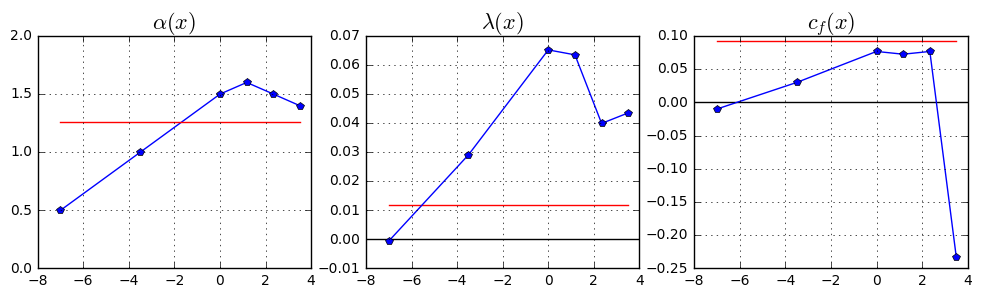
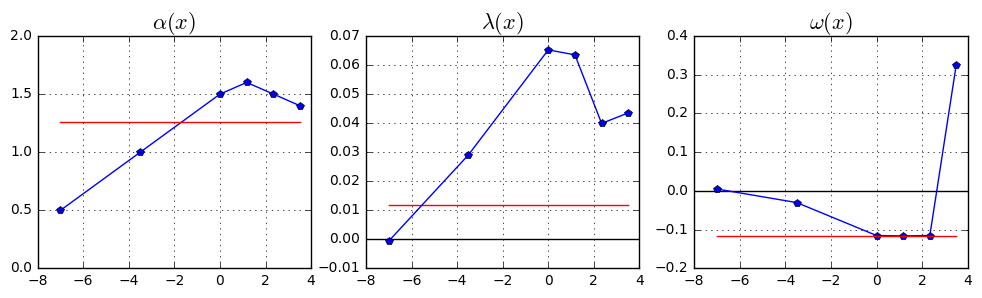
x independent instability added to ch2_edge

diff --git a/ch2_edge.tex b/ch2_edge.tex
@@ -34,7 +34,7 @@
 Здесь $\v_{Pois}=(1-r^2,0,0)$ --- течение Пуазейля, $t_0$ --- некоторый фиксированный момент времени, $\alpha \in [0,1]$ --- скалярный параметр. Значение $\alpha=0$ соответствует нулевому возмущению, и решением при $t>0$ остается течение Пуазейля. Выбирая $\alpha=1$, мы уже в начальный момент времени попадаем на турбулентный режим и остаемся на нем при $t>0$. При промежуточных значениях $\alpha$ происходит стремление решения либо к одному, либо к другому режиму. Метод деления отрезка пополам позволяет получить значение $\alpha^*$, отделяющее те значения $\alpha$, при которых устанавливается ламинарный режим течения, от тех, при которых происходит выход на турбулентный режим. Заранее известно, что $\alpha^*$ лежит внутри отрезка $[\alpha_0', \alpha_0''] = [0,1]$. На каждой итерации длина отрезка, заключающего $\alpha^*$, сокращается вдвое. На $n$-ой итерации определяется, какой режим течения устанавливается при $\alpha_{n} = (\alpha_{n-1}' + \alpha_{n-1}'') / 2$, разделяющем отрезок $[\alpha'_{n-1}, \alpha''_{n-1}]$ на две равные части. Если устанавливается ламинарный режим течения, то $\alpha^*$ принадлежит верхней половине отрезка, $[\alpha_{n}', \alpha_{n}''] = [\alpha_{n}, \alpha_{n-1}'']$, если турбулентный --- то нижней, $[\alpha_{n}', \alpha_{n}''] = [\alpha_{n-1}', \alpha_{n}]$. На рисунке \ref{bisection_pic} представлены графики $A(t)$ --- среднеквадратичного по всему объему трубы отклонения поля скорости от течения Пуазейля для нескольких значений $\alpha_n$, демонстрирующие сходимость итерационного процесса. Уточняя значение $\alpha$, мы увеличиваем длительность балансирования решения на сепаратрисе. 
 
 
-\begin{figure}[h]
+\begin{figure}
 \center{\includegraphics[width=1\linewidth]{bisection.png}}
 \caption{Итерационный процесс построения решения на сепаратрисе. 1--7 --- эволюция среднеквадратичной амплитуды возмущений $A(t)$ при уточнении начального
 значения.}
@@ -47,7 +47,7 @@
 
 Сравнение предельного решения на сепаратрисе с турбулентным порывом, представленное на рисунке \ref{3D_img}, показывает качественное согласие этих решений. Во всех структурах имеются протяженные области ускоренного и замедленного движения, концентрирующиеся в пристенной области трубы. Сохраняется и основная качественная особенность порыва --- медленное понижение осевой скорости на переднем фронте и более резкое её восстановление на заднем (см. рис. \ref{ucl_cmp_img}). Мы будем называть предельное решение на сепаратрисе {\it модельным порывом}.  
 
-\begin{figure}[h]
+\begin{figure}
 \center{\includegraphics[width=1\linewidth]{ucl_cmp.png}}
 \caption{Сравнение скорости на оси трубы в турбулентном (1) и модельном (2) порывах.}
 \label{ucl_cmp_img}
@@ -66,7 +66,7 @@
 
 При $\Re=2200$ модельный порыв имеет длину около $40R$ и перемещается вдоль трубы с близкой к $0.69U$ скоростью. В подвижной системе отсчета он является периодическим по времени с периодом около $60 R/U$. Характерным свойством модельного порыва является наличие вытянутых вдоль потока областей с повышенным и пониженным значением продольной компоненты скорости, чередующихся в угловом направлении (см. рис. \ref{3D_img}). Полосы повышенной скорости целиком расположены около стенки трубы, полосы замедления соединяются в единое целое в приосевой области вблизи переднего фронта. Наличие вытянутых вдоль потока полос ускоренного и замедленного движения --- характерное свойство любого пристенного турбулентного течения. Однако, в отличие от реальной турбулентности, где полосы случайно блуждают во времени и в пространстве, в рассматриваемом решении полосы сохраняют свое положение и форму, лишь слегка искажаясь периодическими колебаниями. 
 
-\begin{figure}[h]
+\begin{figure}
 \center{\includegraphics[width=1\linewidth]{U2D.png}}
 \caption{Распределения вдоль трубы продольной (а) и радиальной (б) компоненты осесимметричной составляющей скорости $V_{2D}$ для нескольких расстояний от оси
 трубы: 1–4 – r = 0, 0.4, 0.7, 0.9}
@@ -76,7 +76,7 @@
 Для удобства перейдем в подвижную систему координат, перемещающуюся вдоль трубы со скоростью сноса локализованной структуры $c_f$. В подвижной системе решение представляется в виде суперпозиции стационарной составляющей $\V(\x) = \overline{\v}^t$ и колебательной $\v_n(t,\x) = \v - \V$. Стационарную составляющую в свою очередь представим в виде суперпозиции осесимметричной $\V_{2D}(\x) = \overline{\V}^{\theta}$ и трехмерной $\V_{3D}(\x)=\V - \V_{2D}$ составляющих. Распределения продольной компоненты осесимметричной составляющей скорости вдоль трубы $V_{x,2D}(x)$ для нескольких расстояний от оси трубы представлены на рисунке \ref{U2D_pic},а (даны отклонения от течения Пуазейля). Начало системы отсчета $x=0$ помещено в сечение, в котором среднее отклонение скорости от течения Пуазейля максимально. Голова структуры, где начинает проявляться отклонение осевой скорости, располагается на расстоянии $x \approx 45$. Хвостовая часть структуры на сепаратрисе очерчена не так четко, как в турбулентных порывах, где восстановление скорости происходит на отрезке длиной в $3-5$ радиусов трубы.  Падение скорости в приосевой области трубы компенсируется ускорением у стенки. Поведение радиальной компоненты $V_{r,2D}$, показанное на рисунке \ref{U2D_pic},б соответствует изменению осевой скорости --- в зоне замедления на оси происходит растекание жидкости к стенкам, $V_{r,2D}>0$, в передней части происходит обратный процесс и $V_{r,2D}<0$.
 
 
-\begin{figure}[h]
+\begin{figure}
 \center{\includegraphics[width=0.5\linewidth]{amp.png}}
 \caption{Распределения вдоль трубы среднеквадратичных по сечению амплитуд трех
 составляющих движения: 1 – $V_{2D}$ (отклонение от течения Пуазейля); 2, 3 – продольная и поперечные компоненты скорости $V_{3D}$ ; 4 – $v_{n}$}
@@ -157,38 +157,37 @@
 
 \section{Влияние продольной неоднородности среднего поля скорости на форму пульсаций}
 
-Интересно отметить, что область наибольшей интенсивности пульсаций совпадает с областью резкого изменения скорости на оси трубы (см. рис. \ref{ucl_cmp_img}, \ref{amp_pic}). Аналогичную особенность выделяют также в турбулентном порыве \cite{Hof2010}. Для того, чтобы установить влияние продольной неоднородности стационарного течения на образование пульсаций, было исследовано на устойчивость однородное вдоль трубы поле скорости $\U$, воспроизводящее полосчатые структуры. В этом случае коэффициенты в уравнении \eqref{lin_eq} не зависят от $x$, и собственные решения могут быть представлены в виде $\v' = \hat \v(r,\theta,t) \exp(i \alpha x)$, что позволяет исключить переменную $x$ из постановки задачи. Уравнение \eqref{lin_eq} в этом случае принимает вид:
+Интересно отметить, что область наибольшей интенсивности пульсаций совпадает с областью резкого изменения скорости на оси трубы (см. рис. \ref{ucl_cmp_img}, \ref{amp_pic}). Аналогичную особенность выделяют также в турбулентном порыве \cite{Hof2010}. Для того, чтобы установить влияние продольной неоднородности стационарного течения на образование пульсаций, было исследовано на устойчивость однородное вдоль трубы поле скорости $\U$, воспроизводящее полосчатые структуры. В этом случае коэффициенты в уравнении \eqref{lin_eq} не зависят от $x$, и собственные решения могут быть представлены в виде $\v' = \hat \v(r,\theta,t) \exp(i \alpha x)$, что позволяет исключить переменную $x$ из постановки задачи. Уравнение~\eqref{lin_eq} принимает вид:
+\begin{multline*}
+\frac{\partial \hat v_x}{\partial t} = - i \alpha \hat p - i \alpha (U_x - c_f) \hat v_x - (\U_{\perp},\nabla_{\perp}) \hat v_x - 
+(\hat \v_{\perp}, \nabla_{\perp}) U_x + \frac{1}{\Re}( \nabla_{\perp}^2 - \alpha^2 ) \hat v_x,
+\end{multline*}
+\begin{multline*}
+\frac{\partial \hat \v_{\perp}}{\partial t} =  - \nabla_{\perp} \hat p - i \alpha (U_x - c_f) \hat \v_{\perp} - (\U_{\perp},\nabla_{\perp}) \hat \v_{\perp} - (\hat \v_{\perp}, \nabla_{\perp}) \U_{\perp} + \frac{1}{\Re}( \nabla_{\perp}^2 - \alpha^2 ) \hat \v_{\perp}, 
+\end{multline*}
+где знаком $\perp$ обозначена проекция соответствующей величины в плоскость поперечного сечения, ортогональная $x$. Все величины, отмеченные крышечкой, комплексные и не зависят от $x$. В постановке задачи также меняет свой вид уравнение неразрывности:
 \begin{equation*}
-\frac{\partial \hat v_x}{\partial t} =  i \alpha (c_f - U_x) \hat v_x - \hat d - i \alpha \hat p - (\U_{\perp},\nabla_{\perp}) \hat v_x - 
-(\hat \v_{\perp}, \nabla) U_x  + \frac{1}{\Re}( \nabla_{\perp}^2 - \alpha^2 ) \hat v_x,
+\nabla_{\perp} \cdot \hat \v_{\perp} = - i \alpha \hat v_x, 
 \end{equation*}
-\begin{equation*}
-\frac{\partial \hat \v_{\perp}}{\partial t} = i \alpha (c_f - U_x) \hat \v_{\perp}  - \nabla_{\perp} \hat p - (\U_{\perp},\nabla_{\perp}) 
-\hat \v_{\perp} - (\hat \v_{\perp}, \nabla) \U_{\perp} + \frac{1}{\Re}( \nabla_{\perp}^2 - \alpha^2 ) \hat \v_{\perp}, 
-\end{equation*}
-где $\perp$ обозначает проекцию соответствующей величины в плоскости поперечного сечения трубы, ортогональную $x$. Все величины, отмеченные крышечкой, комплексные и не зависят от $x$. Также меняет свой вид уравнение неразрывности:
-\begin{equation*}
-\nabla_{\perp} \cdot \hat \v_{\perp} = - i \alpha \hat v_x. 
-\end{equation*}
+и снимается условие периодичности вдоль потока \eqref{per_eq}. Задача, таким образом, сводится к двумерной постановке с дополнительным параметром $\alpha$. 
 
-
-\begin{figure}[h]
+\begin{figure}
 \center{\includegraphics[width=1\linewidth]{cs_lin.png}}
-\caption{Значение волнового числа $\alpha$, инкремента нарастания $\lambda$ и фазовой скорости $c_f$ для наиболее быстрорастущего собственного возмущения, возникающего на однородном вдоль трубы поле скорости, повторяющем среднее поле скорости в сечении $x$ (синий) и пульсационной составляющей движения $\v_n$ (красный).}
+\caption{Значение волнового числа $\alpha$, инкремента нарастания $\lambda$ и угловой частоты $\omega$ (в системе отсчета порыва) для наиболее быстрорастущего собственного возмущения, возникающего на стационарной составляющей движения модельного порыва $\V$ (красная линия) и на однородном вдоль трубы поле скорости, повторяющем $\V$ в сечении с координатой $x$ (синие точки).}
 \label{cs_lin_pic}
 \end{figure}
 
+На линейную устойчивость исследовано несколько однородных вдоль трубы полей скорости $\U_i$, повторяющих среднее поле скорости модельного порыва $\V$ в одном из поперечных сечений трубы с координатой $x_i$, $\U_i=\V(x_i)$. Все исследованные $\U_i$ оказались неустойчивы, для каждого из них найдено наиболее неустойчивое собственное возмущение --- собственное возмущение, имеющее наибольшую скорость роста среди всех значений $\alpha$. Наиболее быстро растущее собственное возмущение поля скорости $\U_i$ при фиксированном значении $\alpha$ получено интегрированием произвольного начального возмущения до выхода на экспоненциальный режим роста $\sim \exp(\lambda + i\omega) t$. 
 
-
-Однородное вдоль трубы поле скорости $\V$ создавалось 
-Было выбрано несколько сечений трубы, среднее поле скорости в которых было использовано для создания однородного вдоль трубы поля $\V$. 
-
- 
-\begin{figure}[h]
+\begin{figure}
 \center{\includegraphics[width=0.8\linewidth]{cs_lin_map.png}}
-\caption{Сверху приведена амплитуда пульсаций наиболее быстрорастущего возмущения, возникающего на однородном вдоль трубы поле скорости, изображенном ниже. Однородное поле скорости повторяет среднее поле скорости в сечении $x$, указанном над иллюстрациями.}
+\caption{Сверху в поперечном сечении изображена амплитуда пульсаций наиболее быстрорастущего возмущения, возникающего на однородном вдоль трубы поле скорости $\U_i$, приведенном ниже. Однородное поле скорости повторяет среднее поле скорости в сечении $x$, указанном над иллюстрациями.}
 \label{cs_lin_map_pic}
 \end{figure}
+
+На рисунке \ref{cs_lin_pic} синими точками приведены полученные значения волнового числа $\alpha$, инкремента нарастания $\lambda$ и угловой частоты $\omega$ для наиболее быстро растущих собственных возмущений поля скорости $\U_i$, как функции $x_i$. Красным нанесены соответствующие значения для наиболее быстрорастущего собственного возмущения, возникающего на стационарной составляющей движения модельного порыва $\V$ непосредственно (длина волны и скорость её перемещения оценены примерно). Угловая частота приведена в системе отсчета, связанной с порывом. Наибольшую скорость роста возмущений демонстрируют сечения в диапазоне $x \in [0, 2]$, именно в этой области пульсации достигают наибольшей интенсивности (см. рис. \ref{amp_pic}). Однако скорость роста возмущений на $\V$ значительно ниже, что может объясняться перераспределением энергии, передаваемой возмущениям в сеченях с координатами $x \in [0, 2]$, в те области, где средний профиль скорости имеет более устойчивую форму. Наиболее быстро растущие возмущения поля скорости $\U_i$ при $x_i \in [0,2]$ повторяют форму возмущений, наблюдаемых в модельном порыве. В частности, их волновые числа и угловые частоты близки к соответствующим значениям как для малых возмущений, возникающих на $\V$, так и для пульсационной составляющей движения модельного порыва $\v_n$. Сравнение распределения амплитуды пульсаций в поперечном сечении, возникающих на~$\U_i$ при $x \in [0,2]$, (см. рис. \ref{cs_lin_map_pic}) и возникающих в модельном порыве (см. рис. \ref{lin_amp_cmp_pic}) также демонстрируют качественное соответствие этих решений. Однако уже при $x = 3.5$ среднее поле скорости стационарного течения искажается так, что на соответствующем ему $\U$ наиболее быстрорастущим оказывается возмущение качественно другой формы. С этом, в частности, связано резкое отличие значения $\omega$ для этого решения от соответствующих значений при меньших $x$ (см. рис. \ref{cs_lin_pic}). 
+
+Таким образом, может быть сделан вывод о том, что продольная неоднородность стационарной составляющей движения модельного порыва не играет существенной роли при образовании пульсационной составляющей движения. Скорее, резкое изменение скорости в центральной части трубы является следствием образования пульсаций, по крайней мере для модельного порыва. 
 
 \section{Энергетический баланс между компонентами движения модельного порыва}
 
